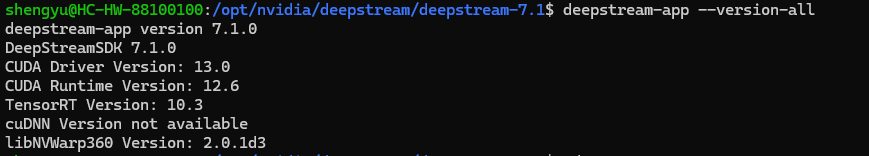
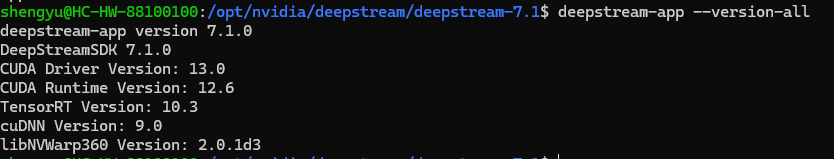
Updated README.md

diff --git a/README.md b/README.md
@@ -17,14 +17,67 @@ This project sets up a simple people detection and tracking pipeline using NVIDI
 
 ---
 
+## 🎁 Prerequisites
+
+### To install cuDNN for DeepStream[OPTIONAL]
+
+
+Extract or navigate to the cuDNN archive folder
+
+```bash
+cd cudnn-linux-x86_64-9.12.0.46_cuda12-archive
+```
+
+Copy cuDNN headers to CUDA include directory\
+
+```bash
+sudo cp include/cudnn*.h /usr/local/cuda/include/
+```
+
+Copy cuDNN libraries to CUDA lib64 directory
+
+```bash
+sudo cp lib/libcudnn* /usr/local/cuda/lib64/
+```
+
+Give read permissions
+
+```bash
+sudo chmod a+r /usr/local/cuda/include/cudnn*.h /usr/local/cuda/lib64/libcudnn*
+```
+
+Create essential symbolic links
+
+```bash
+cd /usr/local/cuda/lib64
+sudo ln -sf libcudnn.so.9.12.0 libcudnn.so.9
+sudo ln -sf libcudnn.so.9 libcudnn.so
+sudo ln -sf libcudnn_cnn.so.9.12.0 libcudnn_cnn.so.9
+sudo ln -sf libcudnn_cnn.so.9 libcudnn_cnn.so
+sudo ln -sf libcudnn_adv.so.9.12.0 libcudnn_adv.so.9
+sudo ln -sf libcudnn_adv.so.9 libcudnn_adv.so
+```
+
+Update the linker cache
+
+```bash
+sudo ldconfig
+```
+
+---
+
 ## 🛠 Version Used 
 
 ![Ubuntu Version](Images/ubuntu_version.png)
 
-![Versions](Images/versions.png)
+![Versions](Images/versions.png) 
+<br>
+⬆⬆⬆
+With cuDNN installed
 <br>
 
 ---
+
 
 ## 📥 Step-by-Step Instructions
 
@@ -231,13 +284,13 @@ Now open the pipeline.txt
 sudo gedit pipeline.txt
 ```
 
-Scroll down to the TRACKER section of the pipeline.txt until you see the highlighted section below which we can observe SIX different tracker configs
+Scroll down to the TRACKER section of the pipeline.txt until you see the highlighted section below which we can observe 6 different tracker configs
 
 ![Tracker Configs](Images/tracker_configs.png)
 
 Instruction:
 - Only UNCOMMENT whichever tracker "ll-config-file" you want to use
-- Leave only ONE "ll-config-file" UNCOMMENTED and the rest Commented OUT
+- Leave only 1 "ll-config-file" UNCOMMENTED and the rest Commented OUT
 - Then run the pipeline and save the video to your local
 <br>
 
@@ -262,5 +315,6 @@ ls -lh /opt/nvidia/deepstream/deepstream-7.1/samples/models/Tracker/
 
 Notes:
 My Deepstream was installed from the tar package
+The ouput video using each tracker can be found inside the VIdeos folder in this repo
 
 ---
